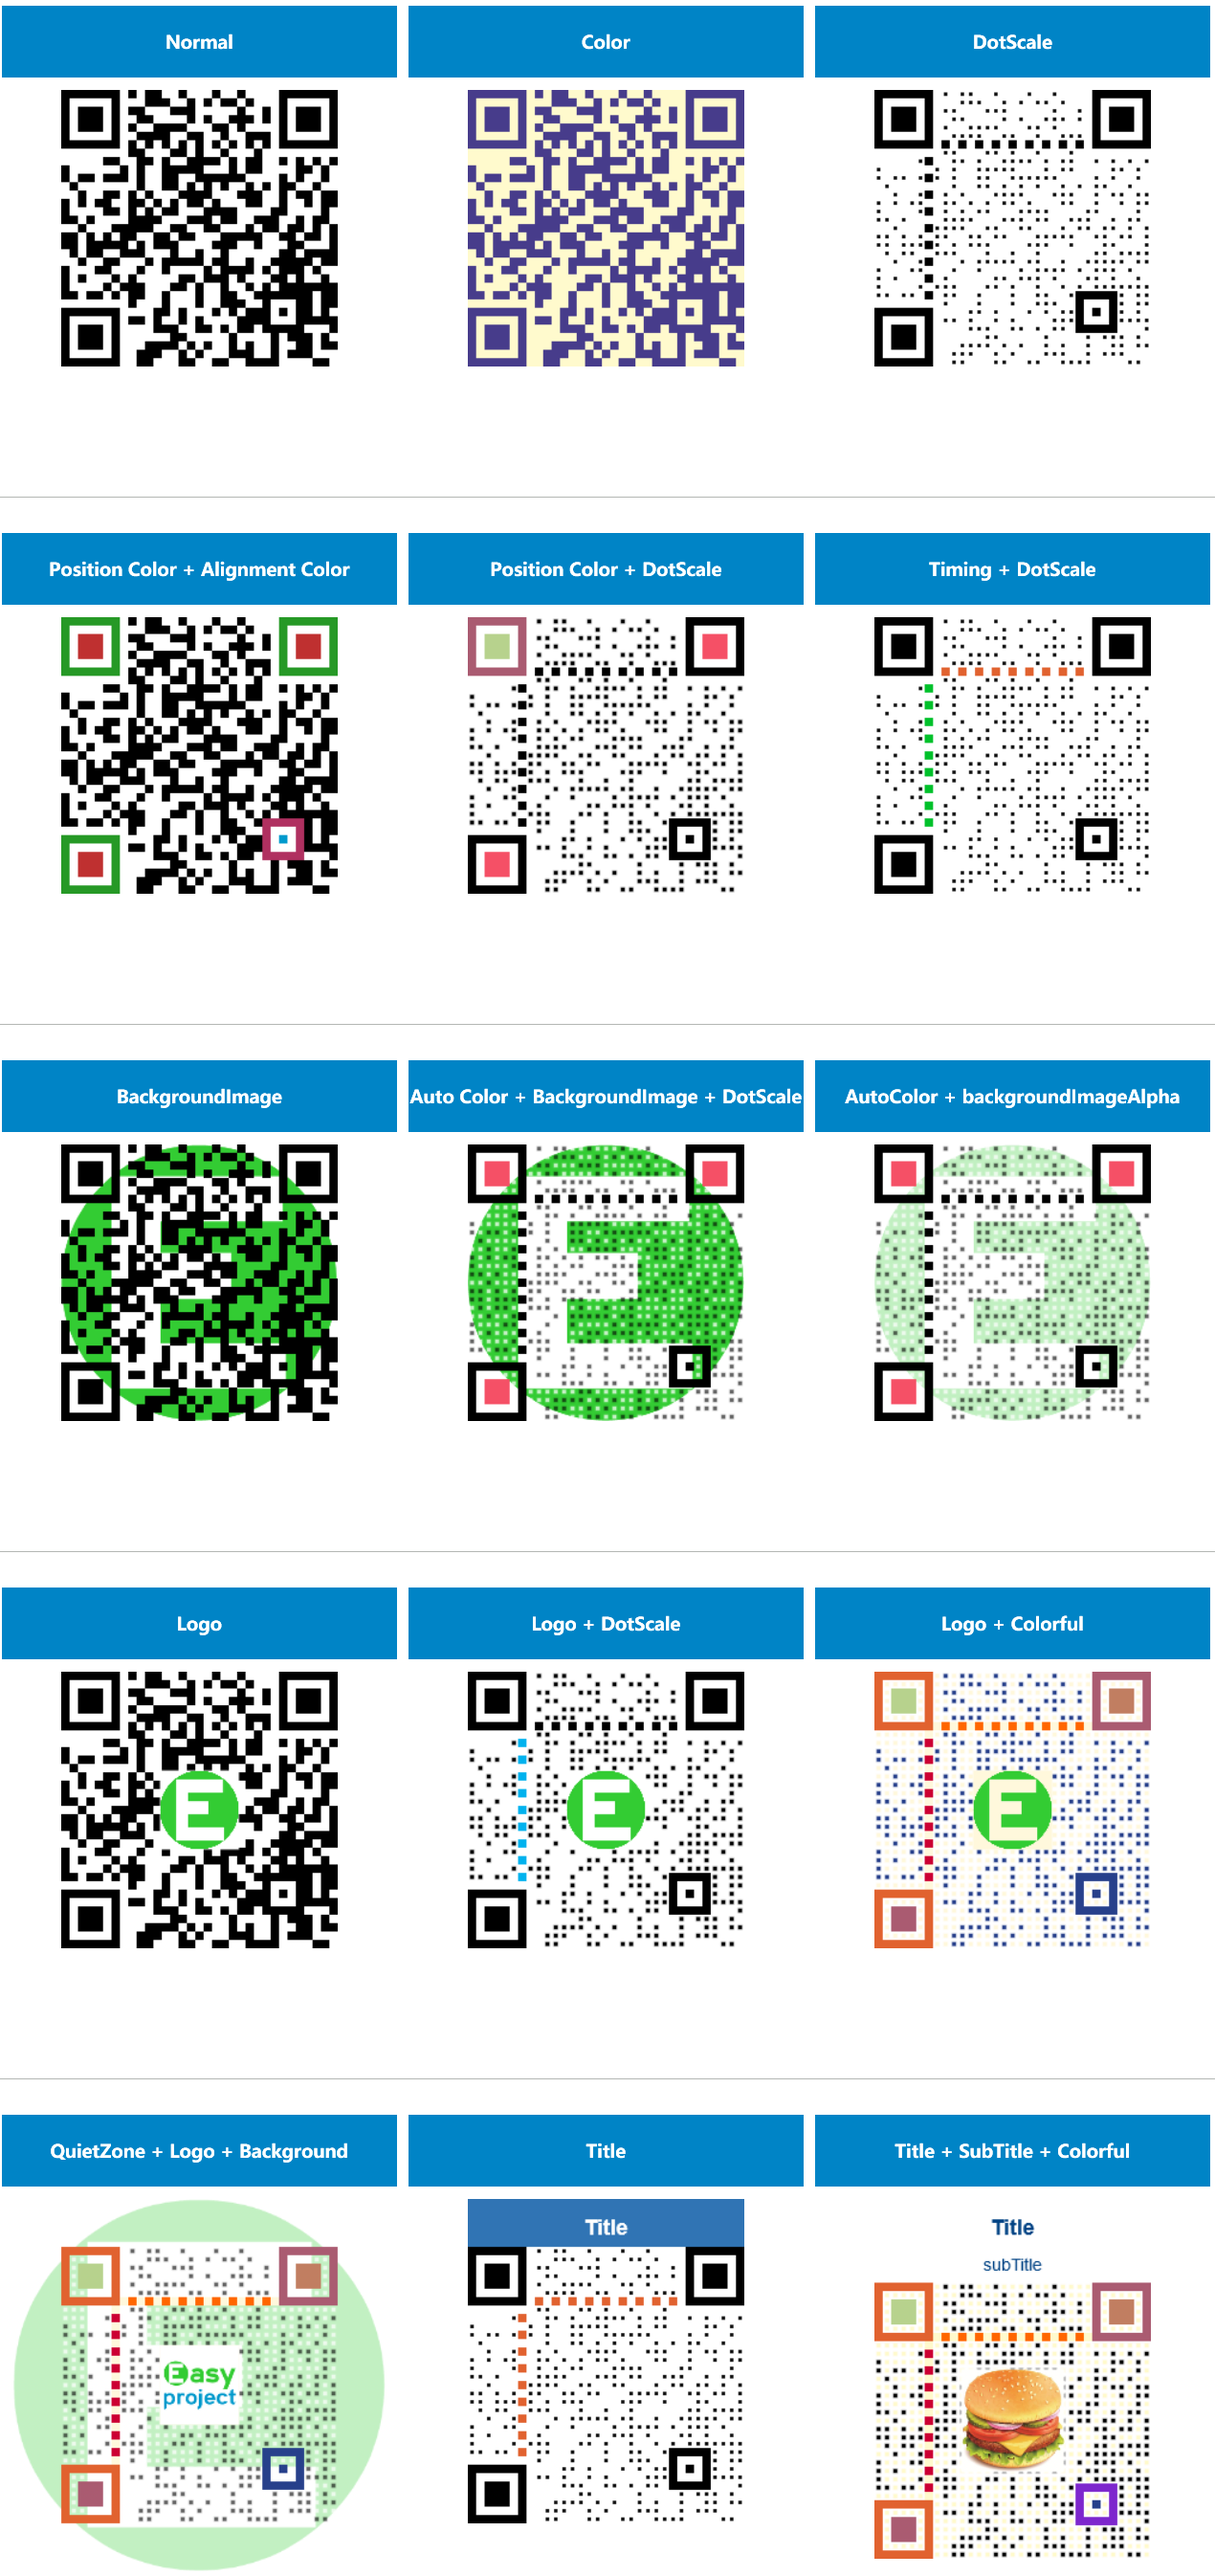
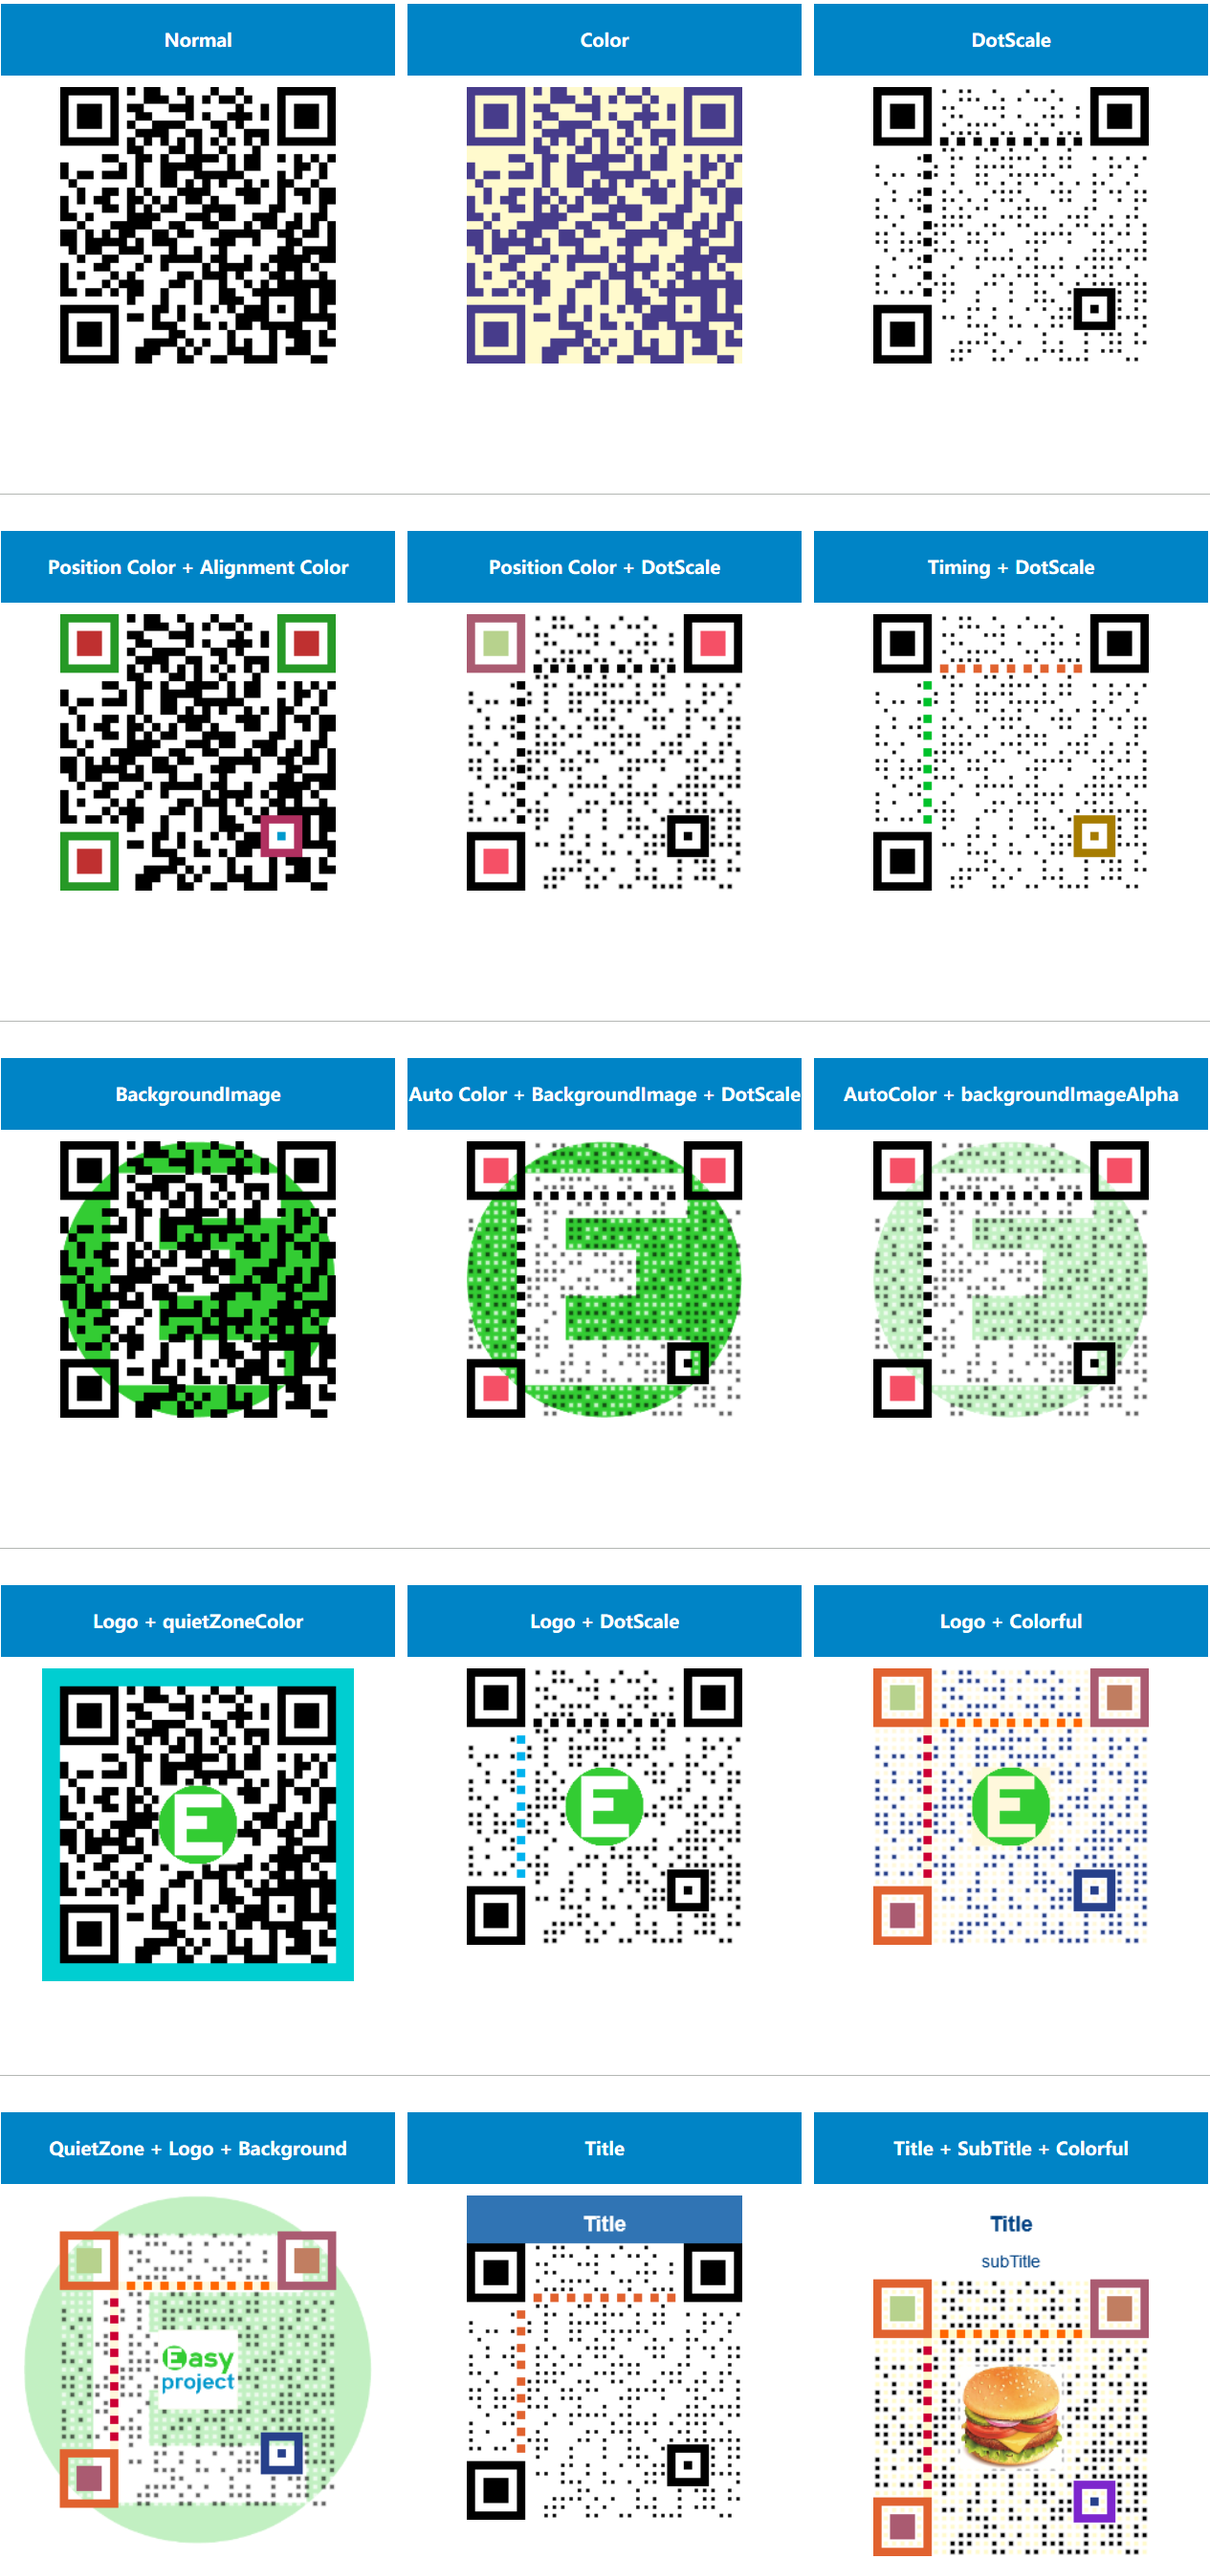
A feature-rich cross-browser QRCode generator for pure javascript.
New version 3.3.0 release!
+ Quiet Zone color settings.

diff --git a/dist/easy.qrcode.min.js b/dist/easy.qrcode.min.js
@@ -1,9 +1,9 @@
 /**
  * EasyQRCodeJS
  * 
- * Cross-browser QRCode generator for pure javascript. Support Dot style, Logo, Background image, Colorful, Title, etc. Support Angular, Vue.js, React framework. (Running with DOM on client side)
+ * Cross-browser QRCode generator for pure javascript. Support Dot style, Logo, Background image, Colorful, Title, etc.(Running with DOM on client side)
  * 
- * Version 3.2.1
+ * Version 3.3.0
  * 
  * @author [ inthinkcolor@gmail.com ]
  * 
@@ -17,4 +17,4 @@
  * [Support AMD, CMD, CommonJS/Node.js]
  * 
  */
[2 lines of base64/hex data omitted]

diff --git a/src/easy.qrcode.js b/src/easy.qrcode.js
@@ -3,7 +3,7 @@
  * 
  * Cross-browser QRCode generator for pure javascript. Support Dot style, Logo, Background image, Colorful, Title, etc. Support Angular, Vue.js, React framework. (Running with DOM on client side)
  * 
- * Version 3.2.1
+ * Version 3.3.0
  * 
  * @author [ inthinkcolor@gmail.com ]
  * 
@@ -1148,12 +1148,13 @@
 
 			if (_htOption.quietZone) {
 				divStyle = 'padding:' + _htOption.quietZone + 'px; display:inline-block; width:' + (_htOption.width +
-					_htOption.quietZone * 2) + 'px;';
+					_htOption.quietZone * 2) + 'px; height:' + (_htOption.width +
+					_htOption.quietZone * 2) + 'px;background:'+_htOption.quietZoneColor+'; text-align:center;';
 			}
 			aHTML.push('<div style="font-size:0;' + divStyle + '">');
 
 			aHTML.push(
-				'<table  style="font-size:0;border:0;border-collapse:collapse; margin-top:0;" border="0" cellspacing="0" cellspadding="0">'
+				'<table  style="font-size:0;border:0;border-collapse:collapse; margin-top:0;" border="0" cellspacing="0" cellspadding="0" align="center" valign="middle">'
 			);
 			aHTML.push('<tr height="' + _htOption.titleHeight +
 				'" align="center"><td style="border:0;border-collapse:collapse;margin:0;padding:0" colspan="' + nCount +
@@ -1190,7 +1191,7 @@
 						aHTML.push('<td style="border:0;border-collapse:collapse;padding:0;margin:0;width:' + nWidth + 'px;height:' +
 							nHeight + 'px;">' +
 							'<span style="width:' + nWidth + 'px;height:' + nHeight + 'px;background-color:' + (bIsDark ?
-								eyeColorDark : nonRequiredcolorLight) + ';"></span></td>');
+								eyeColorDark : nonRequiredcolorLight) + ';display:inline-block"></span></td>');
 
 					} else {
 
@@ -1276,8 +1277,6 @@
 			if (nLeftMarginTable > 0 && nTopMarginTable > 0) {
 				elTable.style.margin = nTopMarginTable + "px " + nLeftMarginTable + "px";
 			}
-
-
 		};
 
 		/**
@@ -1423,6 +1422,19 @@
 			this.clear();
 
 			var t = this;
+            
+            function drawQuietZoneColor(){
+                // top
+                _oContext.lineWidth = 0;
+                _oContext.fillStyle =  _htOption.quietZoneColor;
+                _oContext.fillRect(0, 0, t._elCanvas.width, _htOption.quietZone);
+                // left
+                 _oContext.fillRect(0, _htOption.quietZone, _htOption.quietZone, t._elCanvas.height-_htOption.quietZone*2);
+                // right
+                 _oContext.fillRect(t._elCanvas.width-_htOption.quietZone,  _htOption.quietZone, _htOption.quietZone, t._elCanvas.height-_htOption.quietZone*2);
+                // bottom
+                 _oContext.fillRect(0, t._elCanvas.height-_htOption.quietZone, t._elCanvas.width, _htOption.quietZone);
+            }
 
 			if (_htOption.backgroundImage) {
 
@@ -1452,6 +1464,9 @@
 				if (_htOption.onRenderingStart) {
 					_htOption.onRenderingStart()
 				}
+                if(_htOption.quietZone>0 && _htOption.quietZoneColor){
+                    drawQuietZoneColor();
+                }
 				for (var row = 0; row < nCount; row++) {
 					for (var col = 0; col < nCount; col++) {
 						var nLeft = col * nWidth + _htOption.quietZone;
@@ -1528,29 +1543,23 @@
 				}
 
 				if (_htOption.title) {
+				    
 					_oContext.fillStyle = _htOption.titleBackgroundColor;
 					_oContext.fillRect(0, 0, this._elCanvas.width, _htOption.titleHeight);
-
+				
 					_oContext.font = _htOption.titleFont;
 					_oContext.fillStyle = _htOption.titleColor;
 					_oContext.textAlign = 'center';
-					_oContext.fillText(_htOption.title, _htOption.width / 2, 30);
+					_oContext.fillText(_htOption.title, this._elCanvas.width / 2, 30);
 				}
-
+				
 				if (_htOption.subTitle) {
 					_oContext.font = _htOption.subTitleFont;
 					_oContext.fillStyle = _htOption.subTitleColor;
-					_oContext.fillText(_htOption.subTitle, _htOption.width / 2, 60);
+					_oContext.fillText(_htOption.subTitle, this._elCanvas.width / 2, 60);
 				}
 
-
-
-				if (_htOption.logo) {
-					var img = new Image();
-					
-					var _this = this;
-
-					function genratorImg() {
+                    function genratorImg() {
 						var imgW = Math.round(_htOption.width / 3.5);
 						var imgH = Math.round(_htOption.height / 3.5);
 						if (imgW != imgH) {
@@ -1583,6 +1592,11 @@
 
 						_this.makeImage();
 					}
+                    
+				if (_htOption.logo) {
+					var img = new Image();
+					
+					var _this = this;
 
 
 					img.onload = function() {
@@ -1736,13 +1750,15 @@
 		this._htOption = {
 			width: 256,
 			height: 256,
-			quietZone: 0,
 			typeNumber: 4,
 			colorDark: "#000000",
 			colorLight: "#ffffff",
 			correctLevel: QRErrorCorrectLevel.H,
 
 			dotScale: 1, // Must be greater than 0, less than or equal to 1. default is 1
+            
+            quietZone: 0,
+            quietZoneColor: 'transparent', 
 
 			title: "",
 			titleFont: "bold 16px Arial",

diff --git a/demo/demo.html b/demo/demo.html
@@ -38,7 +38,7 @@
 			}
 
 			.qr table {
-				margin: 0 auto;
+				
 			}
 
 			.title {
@@ -295,7 +295,7 @@
 				},
 				
 				{
-					title: "Logo",
+					title: "Logo + quietZoneColor",
 					config: {
 						text: "www.easyproject.cn/donation", // Content
 
@@ -303,8 +303,9 @@
 						height: 240, // Height
 						colorDark: "#000000", // Dark color
 						colorLight: "#ffffff", // Light color
-
-
+                        
+                        quietZone: 15,
+                        quietZoneColor: '#00CED1',
 
 						// === Logo
 						logo: "logo-transparent.png", // LOGO
@@ -392,6 +393,7 @@
 					}
 				
 				},
+               
 				{
 					title: "QuietZone + Logo + Background",
 					config: {
@@ -399,7 +401,7 @@
 				
 						width: 240, // Widht
 						height: 240, // Height
-						quietZone: 20, 
+						quietZone: 30, 
 						colorDark: "#27408B", // Dark color
 						colorLight: "#FFF8DC", // Light color
 				

diff --git a/demo/demo_AMD.html b/demo/demo_AMD.html
@@ -305,7 +305,7 @@
 					},
 					
 					{
-						title: "Logo",
+						title: "Logo + quietZoneColor",
 						config: {
 							text: "www.easyproject.cn/donation", // Content
 				
@@ -313,8 +313,9 @@
 							height: 240, // Height
 							colorDark: "#000000", // Dark color
 							colorLight: "#ffffff", // Light color
-				
-				
+                            
+                            quietZone: 15,
+                            quietZoneColor: '#00CED1',
 				
 							// === Logo
 							logo: "logo-transparent.png", // LOGO

diff --git a/readme.md b/readme.md
@@ -175,12 +175,15 @@ var qrcode = new QRCode(DOM_object, options_object);
 			text: "https://github.com/ushelp/EasyQRCodeJS",
 			width: 256,
 			height: 256,
-			quietZone: 0,
 			colorDark : "#000000",
 			colorLight : "#ffffff",
 			correctLevel : QRCode.CorrectLevel.H, // L, M, Q, H
 			dotScale: 1 // Must be greater than 0, less than or equal to 1. default is 1
 			
+            quietZone: 0,
+            quietZoneColor: 'transparent',
+			*/
+
 			// ====== Logo
 			/*
 			logo:"../demo/logo.png", // Relative address, relative to `easy.qrcode.min.js`
@@ -253,11 +256,13 @@ var qrcode = new QRCode(DOM_object, options_object);
 	| **text** | Y | String |`''` |  Text | &nbsp; |
 	| **width** | N | Number | `256` |  Width |  &nbsp; |
 	| **height** | N | Number | `256` |  Height |  &nbsp; |
-	| **quietZone** | N | Number | `0` |  Quiet Zone size |  &nbsp; |
 	| **colorDark** | N | String | `#000000` | Dark CSS color |  &nbsp; |
 	| **colorLight** | N | String | `#ffffff` | Light CSS color |  &nbsp; |
 	| **correctLevel** | N | Enum | `QRCode.CorrectLevel.H` | `QRCode.CorrectLevel.H`<br/>`QRCode.CorrectLevel.Q` <br/> `QRCode.CorrectLevel.M` <br/> `QRCode.CorrectLevel.L`|  &nbsp; |
 	| **dotScale** | N | Number | `1.0` |Dot style required Patterns. Ranges: `0-1.0` | &nbsp; |
+	| Quiet Zone| --- | ---|---|---|---|
+    | **quietZone** | N | Number | `0` |  Quiet Zone size |  &nbsp; |
+    | **quietZoneColor** | N | String | `transparent` |  Background CSS color to Quiet Zone |  &nbsp; |
 	| Logo options| --- | ---|---|---|---|
 	| **logo** | N | String | `undefined` | Logo Image Path. If use relative address, relative to `easy.qrcode.min.js` |  &nbsp; |
 	| **logoWidth** | N | Number | `undefined` |  Height |  &nbsp; |
